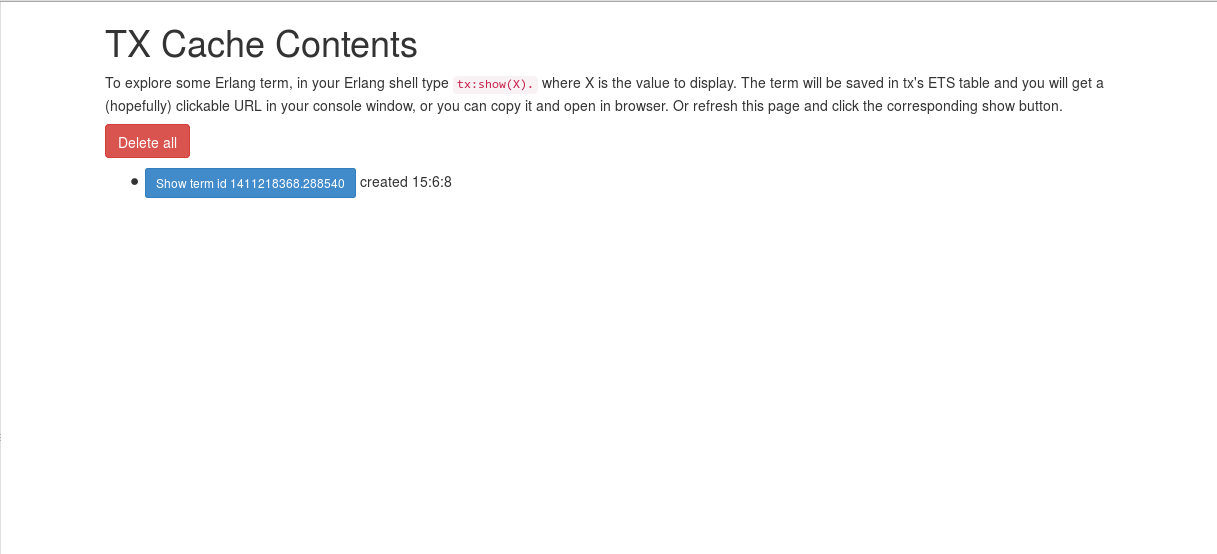
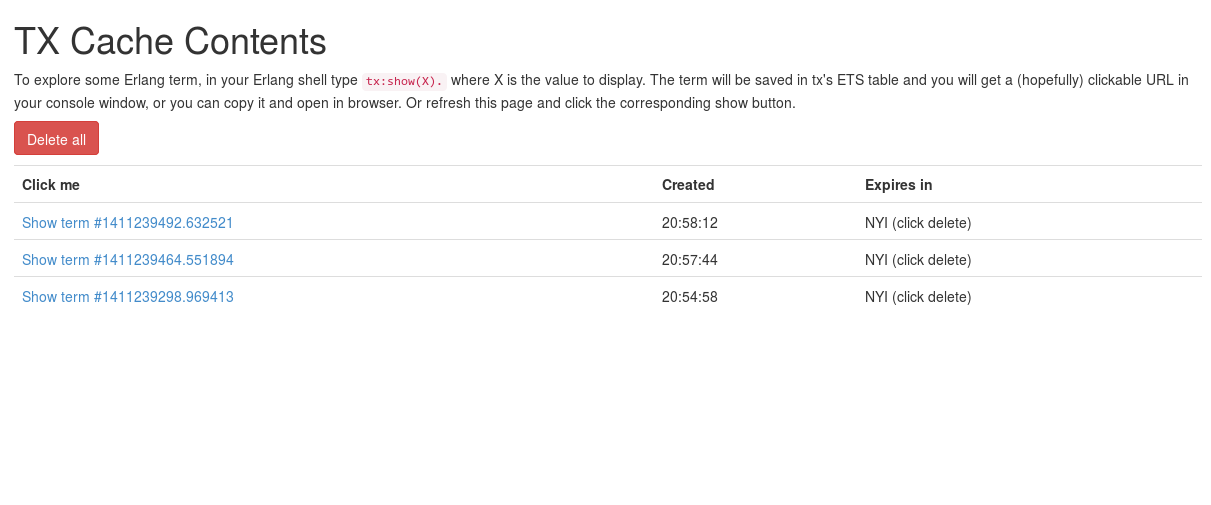
cosmetic: time zero fill, readme screenshots updated

diff --git a/priv/js/tx_controllers.js b/priv/js/tx_controllers.js
@@ -11,9 +11,13 @@ txApp.controller('TxListCtrl', function ($scope, $http) {
     var hours = date.getHours();
     var minutes = date.getMinutes();
     var seconds = date.getSeconds();
-    return hours + ':' + minutes + ':' + seconds;
+    var zerofill2 = function (x) {
+      return ('00' + x).substr(-2)
+    };
+    return zerofill2(hours) + ':' + zerofill2(minutes) + ':' + zerofill2(seconds);
   };
 });
+
 
 txApp.controller('TxShowCtrl', function ($scope, $http) {
   $scope.show_id = window.location.hash.substring(1);

diff --git a/priv/index.html b/priv/index.html
@@ -39,7 +39,7 @@
           {{unix_ts_to_date(term.created)}}
         </td>
         <td>
-          NYI
+          NYI (click delete)
         </td>
       </tr>
     </table>
